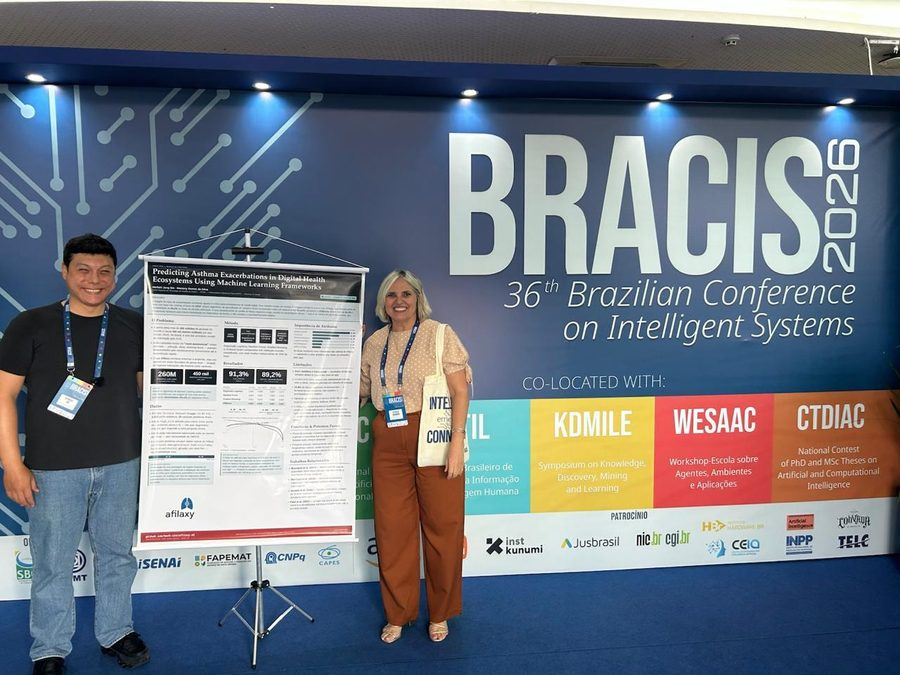
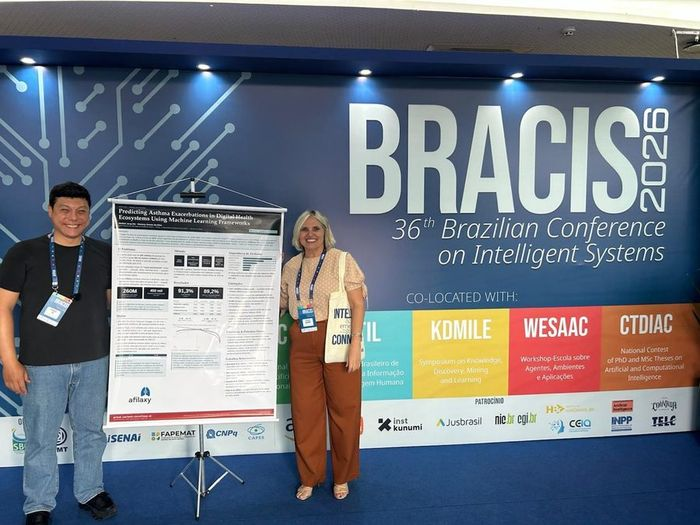
otimização llm

diff --git a/src/components/SocialIcon.tsx b/src/components/SocialIcon.tsx
@@ -1,0 +1,49 @@
+// Ícones de marca embutidos (SVG do Font Awesome Free, CC BY 4.0), no lugar da
+// biblioteca inteira do Font Awesome via CDN. 8 ícones usados, ~4 KB ao todo,
+// sem fonte externa (116 KB) nem CSS não utilizado (que chegava a ~20 KB,
+// quase tudo nunca aplicado) nem requisição bloqueando a renderização.
+const paths: Record<string, { viewBox: string; d: string }> = {
+  instagram: {
+    viewBox: '0 0 448 512',
+    d: 'M224.1 141c-63.6 0-114.9 51.3-114.9 114.9s51.3 114.9 114.9 114.9S339 319.5 339 255.9 287.7 141 224.1 141zm0 189.6c-41.1 0-74.7-33.5-74.7-74.7s33.5-74.7 74.7-74.7 74.7 33.5 74.7 74.7-33.6 74.7-74.7 74.7zm146.4-194.3c0 14.9-12 26.8-26.8 26.8-14.9 0-26.8-12-26.8-26.8s12-26.8 26.8-26.8 26.8 12 26.8 26.8zm76.1 27.2c-1.7-35.9-9.9-67.7-36.2-93.9-26.2-26.2-58-34.4-93.9-36.2-37-2.1-147.9-2.1-184.9 0-35.8 1.7-67.6 9.9-93.9 36.1s-34.4 58-36.2 93.9c-2.1 37-2.1 147.9 0 184.9 1.7 35.9 9.9 67.7 36.2 93.9s58 34.4 93.9 36.2c37 2.1 147.9 2.1 184.9 0 35.9-1.7 67.7-9.9 93.9-36.2 26.2-26.2 34.4-58 36.2-93.9 2.1-37 2.1-147.8 0-184.8zM398.8 388c-7.8 19.6-22.9 34.7-42.6 42.6-29.5 11.7-99.5 9-132.1 9s-102.7 2.6-132.1-9c-19.6-7.8-34.7-22.9-42.6-42.6-11.7-29.5-9-99.5-9-132.1s-2.6-102.7 9-132.1c7.8-19.6 22.9-34.7 42.6-42.6 29.5-11.7 99.5-9 132.1-9s102.7-2.6 132.1 9c19.6 7.8 34.7 22.9 42.6 42.6 11.7 29.5 9 99.5 9 132.1s2.7 102.7-9 132.1z',
+  },
+  threads: {
+    viewBox: '0 0 448 512',
+    d: 'M331.5 235.7c2.2 .9 4.2 1.9 6.3 2.8c29.2 14.1 50.6 35.2 61.8 61.4c15.7 36.5 17.2 95.8-30.3 143.2c-36.2 36.2-80.3 52.5-142.6 53h-.3c-70.2-.5-124.1-24.1-160.4-70.2c-32.3-41-48.9-98.1-49.5-169.6V256v-.2C17 184.3 33.6 127.2 65.9 86.2C102.2 40.1 156.2 16.5 226.4 16h.3c70.3 .5 124.9 24 162.3 69.9c18.4 22.7 32 50 40.6 81.7l-40.4 10.8c-7.1-25.8-17.8-47.8-32.2-65.4c-29.2-35.8-73-54.2-130.5-54.6c-57 .5-100.1 18.8-128.2 54.4C72.1 146.1 58.5 194.3 58 256c.5 61.7 14.1 109.9 40.3 143.3c28 35.6 71.2 53.9 128.2 54.4c51.4-.4 85.4-12.6 113.7-40.9c32.3-32.2 31.7-71.8 21.4-95.9c-6.1-14.2-17.1-26-31.9-34.9c-3.7 26.9-11.8 48.3-24.7 64.8c-17.1 21.8-41.4 33.6-72.7 35.3c-23.6 1.3-46.3-4.4-63.9-16c-20.8-13.8-33-34.8-34.3-59.3c-2.5-48.3 35.7-83 95.2-86.4c21.1-1.2 40.9-.3 59.2 2.8c-2.4-14.8-7.3-26.6-14.6-35.2c-10-11.7-25.6-17.7-46.2-17.8H227c-16.6 0-39 4.6-53.3 26.3l-34.4-23.6c19.2-29.1 50.3-45.1 87.8-45.1h.8c62.6 .4 99.9 39.5 103.7 107.7l-.2 .2zm-156 68.8c1.3 25.1 28.4 36.8 54.6 35.3c25.6-1.4 54.6-11.4 59.5-73.2c-13.2-2.9-27.8-4.4-43.4-4.4c-4.8 0-9.6 .1-14.4 .4c-42.9 2.4-57.2 23.2-56.2 41.8l-.1 .1z',
+  },
+  twitter: {
+    viewBox: '0 0 512 512',
+    d: 'M389.2 48h70.6L305.6 224.2 487 464H345L233.7 318.6 106.5 464H35.8L200.7 275.5 26.8 48H172.4L272.9 180.9 389.2 48zM364.4 421.8h39.1L151.1 88h-42L364.4 421.8z',
+  },
+  linkedin: {
+    viewBox: '0 0 448 512',
+    d: 'M416 32H31.9C14.3 32 0 46.5 0 64.3v383.4C0 465.5 14.3 480 31.9 480H416c17.6 0 32-14.5 32-32.3V64.3c0-17.8-14.4-32.3-32-32.3zM135.4 416H69V202.2h66.5V416zm-33.2-243c-21.3 0-38.5-17.3-38.5-38.5S80.9 96 102.2 96c21.2 0 38.5 17.3 38.5 38.5 0 21.3-17.2 38.5-38.5 38.5zm282.1 243h-66.4V312c0-24.8-.5-56.7-34.5-56.7-34.6 0-39.9 27-39.9 54.9V416h-66.4V202.2h63.7v29.2h.9c8.9-16.8 30.6-34.5 62.9-34.5 67.2 0 79.7 44.3 79.7 101.9V416z',
+  },
+  facebook: {
+    viewBox: '0 0 512 512',
+    d: 'M512 256C512 114.6 397.4 0 256 0S0 114.6 0 256C0 376 82.7 476.8 194.2 504.5V334.2H141.4V256h52.8V222.3c0-87.1 39.4-127.5 125-127.5c16.2 0 44.2 3.2 55.7 6.4V172c-6-.6-16.5-1-29.6-1c-42 0-58.2 15.9-58.2 57.2V256h83.6l-14.4 78.2H287V510.1C413.8 494.8 512 386.9 512 256h0z',
+  },
+  whatsapp: {
+    viewBox: '0 0 448 512',
+    d: 'M380.9 97.1C339 55.1 283.2 32 223.9 32c-122.4 0-222 99.6-222 222 0 39.1 10.2 77.3 29.6 111L0 480l117.7-30.9c32.4 17.7 68.9 27 106.1 27h.1c122.3 0 224.1-99.6 224.1-222 0-59.3-25.2-115-67.1-157zm-157 341.6c-33.2 0-65.7-8.9-94-25.7l-6.7-4-69.8 18.3L72 359.2l-4.4-7c-18.5-29.4-28.2-63.3-28.2-98.2 0-101.7 82.8-184.5 184.6-184.5 49.3 0 95.6 19.2 130.4 54.1 34.8 34.9 56.2 81.2 56.1 130.5 0 101.8-84.9 184.6-186.6 184.6zm101.2-138.2c-5.5-2.8-32.8-16.2-37.9-18-5.1-1.9-8.8-2.8-12.5 2.8-3.7 5.6-14.3 18-17.6 21.8-3.2 3.7-6.5 4.2-12 1.4-32.6-16.3-54-29.1-75.5-66-5.7-9.8 5.7-9.1 16.3-30.3 1.8-3.7.9-6.9-.5-9.7-1.4-2.8-12.5-30.1-17.1-41.2-4.5-10.8-9.1-9.3-12.5-9.5-3.2-.2-6.9-.2-10.6-.2-3.7 0-9.7 1.4-14.8 6.9-5.1 5.6-19.4 19-19.4 46.3 0 27.3 19.9 53.7 22.6 57.4 2.8 3.7 39.1 59.7 94.8 83.8 35.2 15.2 49 16.5 66.6 13.9 10.7-1.6 32.8-13.4 37.4-26.4 4.6-13 4.6-24.1 3.2-26.4-1.3-2.5-5-3.9-10.5-6.6z',
+  },
+  youtube: {
+    viewBox: '0 0 576 512',
+    d: 'M549.655 124.083c-6.281-23.65-24.787-42.276-48.284-48.597C458.781 64 288 64 288 64S117.22 64 74.629 75.486c-23.497 6.322-42.003 24.947-48.284 48.597-11.412 42.867-11.412 132.305-11.412 132.305s0 89.438 11.412 132.305c6.281 23.65 24.787 41.5 48.284 47.821C117.22 448 288 448 288 448s170.78 0 213.371-11.486c23.497-6.321 42.003-24.171 48.284-47.821 11.412-42.867 11.412-132.305 11.412-132.305s0-89.438-11.412-132.305zm-317.51 213.508V175.185l142.739 81.205-142.739 81.201z',
+  },
+  github: {
+    viewBox: '0 0 496 512',
+    d: 'M165.9 397.4c0 2-2.3 3.6-5.2 3.6-3.3.3-5.6-1.3-5.6-3.6 0-2 2.3-3.6 5.2-3.6 3-.3 5.6 1.3 5.6 3.6zm-31.1-4.5c-.7 2 1.3 4.3 4.3 4.9 2.6 1 5.6 0 6.2-2s-1.3-4.3-4.3-5.2c-2.6-.7-5.5.3-6.2 2.3zm44.2-1.7c-2.9.7-4.9 2.6-4.6 4.9.3 2 2.9 3.3 5.9 2.6 2.9-.7 4.9-2.6 4.6-4.6-.3-1.9-3-3.2-5.9-2.9zM244.8 8C106.1 8 0 113.3 0 252c0 110.9 69.8 205.8 169.5 239.2 12.8 2.3 17.3-5.6 17.3-12.1 0-6.2-.3-40.4-.3-61.4 0 0-70 15-84.7-29.8 0 0-11.4-29.1-27.8-36.6 0 0-22.9-15.7 1.6-15.4 0 0 24.9 2 38.6 25.8 21.9 38.6 58.6 27.5 72.9 20.9 2.3-16 8.8-27.1 16-33.7-55.9-6.2-112.3-14.3-112.3-110.5 0-27.5 7.6-41.3 23.6-58.9-2.6-6.5-11.1-33.3 2.6-67.9 20.9-6.5 69 27 69 27 20-5.6 41.5-8.5 62.8-8.5s42.8 2.9 62.8 8.5c0 0 48.1-33.6 69-27 13.7 34.7 5.2 61.4 2.6 67.9 16 17.7 25.8 31.5 25.8 58.9 0 96.5-58.9 104.2-114.8 110.5 9.2 7.9 17 22.9 17 46.4 0 33.7-.3 75.4-.3 83.6 0 6.5 4.6 14.4 17.3 12.1C428.2 457.8 496 362.9 496 252 496 113.3 383.5 8 244.8 8zM97.2 352.9c-1.3 1-1 3.3.7 5.2 1.6 1.6 3.9 2.3 5.2 1 1.3-1 1-3.3-.7-5.2-1.6-1.6-3.9-2.3-5.2-1zm-10.8-8.1c-.7 1.3.3 2.9 2.3 3.9 1.6 1 3.6.7 4.3-.7.7-1.3-.3-2.9-2.3-3.9-2-.6-3.6-.3-4.3.7zm32.4 35.6c-1.6 1.3-1 4.3 1.3 6.2 2.3 2.3 5.2 2.6 6.5 1 1.3-1.3.7-4.3-1.3-6.2-2.2-2.3-5.2-2.6-6.5-1zm-11.4-14.7c-1.6 1-1.6 3.6 0 5.9 1.6 2.3 4.3 3.3 5.6 2.3 1.6-1.3 1.6-3.9 0-6.2-1.4-2.3-4-3.3-5.6-2z',
+  },
+}
+
+export type SocialIconName = keyof typeof paths
+
+export default function SocialIcon({ name, className }: { name: SocialIconName; className?: string }) {
+  const icon = paths[name]
+  return (
+    <svg viewBox={icon.viewBox} fill="currentColor" aria-hidden="true" className={className}>
+      <path d={icon.d} />
+    </svg>
+  )
+}

diff --git a/src/pages/Home.tsx b/src/pages/Home.tsx
@@ -1,5 +1,6 @@
 import Carousel from '../components/Carousel'
 import TestimonialCarousel from '../components/TestimonialCarousel'
+import SocialIcon from '../components/SocialIcon'
 
 const testimonialImages = [
   { src: '/assets/photos/depoimentos/01-isagerada.png', alt: 'Isagerada no Twitter: "Eu tô muito emocionada, sério!"', w: 650, h: 260 },
@@ -174,7 +175,7 @@ export default function Home() {
               Estamos em fase de coleta de dados rotulados para treinar nosso futuro modelo de Machine Learning supervisionado.
             </p>
             <img src="/assets/photos/ENIAC 2026.jpeg" alt="Herbert Jung Sin e Martony Demes da Silva apresentando o pôster da pesquisa no BRACIS/ENIAC 2026"
-              width={900} height={675} className="mx-auto mt-6 w-full max-w-md rounded-card shadow-lg" loading="lazy" />
+              width={700} height={525} className="mx-auto mt-6 w-full max-w-md rounded-card shadow-lg" loading="lazy" />
             <p className="mt-6 text-white/90 leading-relaxed max-w-3xl mx-auto">
               Em outubro de 2026, apresentamos os primeiros resultados desse modelo no <strong className="text-white">BRACIS/ENIAC 2026</strong>, em parceria com a UFPI: testamos 4 algoritmos de Machine Learning, e o melhor deles identificou risco de crise com 91,3% de precisão (AUC), usando justamente dados que o Afilaxy já coleta hoje, como os acionamentos do botão de emergência. É uma prova de conceito sobre dados sintéticos — o próximo passo é validar o modelo com dados reais dos usuários.
             </p>
@@ -259,18 +260,18 @@ export default function Home() {
             {/* Redes sociais */}
             <div className="mt-10 flex flex-wrap justify-center gap-4">
               {[
-                { href: 'https://www.instagram.com/aflxy/', icon: 'fab fa-instagram', label: 'Instagram' },
-                { href: 'https://www.threads.com/@aflxy', icon: 'fab fa-threads', label: 'Threads' },
-                { href: 'https://www.x.com/afilaxy', icon: 'fab fa-twitter', label: 'X' },
-                { href: 'https://www.linkedin.com/company/afilaxy/', icon: 'fab fa-linkedin', label: 'LinkedIn' },
-                { href: 'https://www.facebook.com/Afilaxy', icon: 'fab fa-facebook', label: 'Facebook' },
-                { href: 'https://wa.me/5511970657225', icon: 'fab fa-whatsapp', label: 'WhatsApp' },
-                { href: 'https://www.youtube.com/@afilaxy', icon: 'fab fa-youtube', label: 'YouTube' },
-                { href: 'https://github.com/herb-sin/afilaxy-kmm', icon: 'fab fa-github', label: 'GitHub' },
+                { href: 'https://www.instagram.com/aflxy/', icon: 'instagram' as const, label: 'Instagram' },
+                { href: 'https://www.threads.com/@aflxy', icon: 'threads' as const, label: 'Threads' },
+                { href: 'https://www.x.com/afilaxy', icon: 'twitter' as const, label: 'X' },
+                { href: 'https://www.linkedin.com/company/afilaxy/', icon: 'linkedin' as const, label: 'LinkedIn' },
+                { href: 'https://www.facebook.com/Afilaxy', icon: 'facebook' as const, label: 'Facebook' },
+                { href: 'https://wa.me/5511970657225', icon: 'whatsapp' as const, label: 'WhatsApp' },
+                { href: 'https://www.youtube.com/@afilaxy', icon: 'youtube' as const, label: 'YouTube' },
+                { href: 'https://github.com/herb-sin/afilaxy-kmm', icon: 'github' as const, label: 'GitHub' },
               ].map((s) => (
                 <a key={s.icon} href={s.href} target="_blank" rel="noopener noreferrer" aria-label={s.label}
-                  className="flex h-14 w-14 items-center justify-center rounded-full bg-white/10 text-xl text-white transition hover:-translate-y-1 hover:bg-primary hover:shadow-lg">
-                  <i className={s.icon} />
+                  className="flex h-14 w-14 items-center justify-center rounded-full bg-white/10 text-white transition hover:-translate-y-1 hover:bg-primary hover:shadow-lg">
+                  <SocialIcon name={s.icon} className="h-5 w-5" />
                 </a>
               ))}
             </div>

diff --git a/src/components/Footer.tsx b/src/components/Footer.tsx
@@ -1,14 +1,15 @@
 import { Link } from 'react-router-dom'
+import SocialIcon, { type SocialIconName } from './SocialIcon'
 
-const socials = [
-  { href: 'https://www.instagram.com/aflxy/', icon: 'fab fa-instagram', label: 'Instagram' },
-  { href: 'https://www.threads.com/@aflxy', icon: 'fab fa-threads', label: 'Threads' },
-  { href: 'https://www.x.com/afilaxy', icon: 'fab fa-twitter', label: 'X' },
-  { href: 'https://www.linkedin.com/company/afilaxy/', icon: 'fab fa-linkedin', label: 'LinkedIn' },
-  { href: 'https://www.facebook.com/Afilaxy', icon: 'fab fa-facebook', label: 'Facebook' },
-  { href: 'https://wa.me/5511970657225', icon: 'fab fa-whatsapp', label: 'WhatsApp' },
-  { href: 'https://www.youtube.com/@afilaxy', icon: 'fab fa-youtube', label: 'YouTube' },
-  { href: 'https://github.com/herb-sin/afilaxy-kmm', icon: 'fab fa-github', label: 'GitHub' },
+const socials: { href: string; icon: SocialIconName; label: string }[] = [
+  { href: 'https://www.instagram.com/aflxy/', icon: 'instagram', label: 'Instagram' },
+  { href: 'https://www.threads.com/@aflxy', icon: 'threads', label: 'Threads' },
+  { href: 'https://www.x.com/afilaxy', icon: 'twitter', label: 'X' },
+  { href: 'https://www.linkedin.com/company/afilaxy/', icon: 'linkedin', label: 'LinkedIn' },
+  { href: 'https://www.facebook.com/Afilaxy', icon: 'facebook', label: 'Facebook' },
+  { href: 'https://wa.me/5511970657225', icon: 'whatsapp', label: 'WhatsApp' },
+  { href: 'https://www.youtube.com/@afilaxy', icon: 'youtube', label: 'YouTube' },
+  { href: 'https://github.com/herb-sin/afilaxy-kmm', icon: 'github', label: 'GitHub' },
 ]
 
 export default function Footer() {
@@ -41,7 +42,7 @@ export default function Footer() {
             {socials.map((s) => (
               <a key={s.label} href={s.href} target="_blank" rel="noopener noreferrer" aria-label={s.label}
                 className="flex h-10 w-10 items-center justify-center rounded-full bg-gray-100 text-secondary transition hover:bg-primary hover:text-white">
-                <i className={s.icon} />
+                <SocialIcon name={s.icon} className="h-4 w-4" />
               </a>
             ))}
           </div>

diff --git a/index.html b/index.html
@@ -40,17 +40,10 @@
   </script>
   <link rel="preconnect" href="https://fonts.googleapis.com" />
   <link rel="preconnect" href="https://fonts.gstatic.com" crossorigin />
-  <link rel="preconnect" href="https://afilaxy-app.firebaseapp.com" />
-  <link rel="preconnect" href="https://www.googleapis.com" />
   <!-- CSS não essencial ao primeiro desenho da página: carregado sem bloquear a renderização -->
   <link rel="preload" href="https://fonts.googleapis.com/css2?family=Inter:wght@400;500;600;700&display=swap" as="style" onload="this.onload=null;this.rel='stylesheet'" />
-  <!-- Só o pacote "brands" + núcleo: todo ícone do site é fab (marca), não precisa do all.min.css inteiro -->
-  <link rel="preload" href="https://cdnjs.cloudflare.com/ajax/libs/font-awesome/6.5.2/css/fontawesome.min.css" as="style" onload="this.onload=null;this.rel='stylesheet'" />
-  <link rel="preload" href="https://cdnjs.cloudflare.com/ajax/libs/font-awesome/6.5.2/css/brands.min.css" as="style" onload="this.onload=null;this.rel='stylesheet'" />
   <noscript>
     <link href="https://fonts.googleapis.com/css2?family=Inter:wght@400;500;600;700&display=swap" rel="stylesheet" />
-    <link href="https://cdnjs.cloudflare.com/ajax/libs/font-awesome/6.5.2/css/fontawesome.min.css" rel="stylesheet" />
-    <link href="https://cdnjs.cloudflare.com/ajax/libs/font-awesome/6.5.2/css/brands.min.css" rel="stylesheet" />
   </noscript>
   <link rel="icon" type="image/png" href="/assets/48px.png" />
   <script src="https://analytics.ahrefs.com/analytics.js" data-key="kCX/OxxvTFlHWmKLx5bc2w" async></script>
